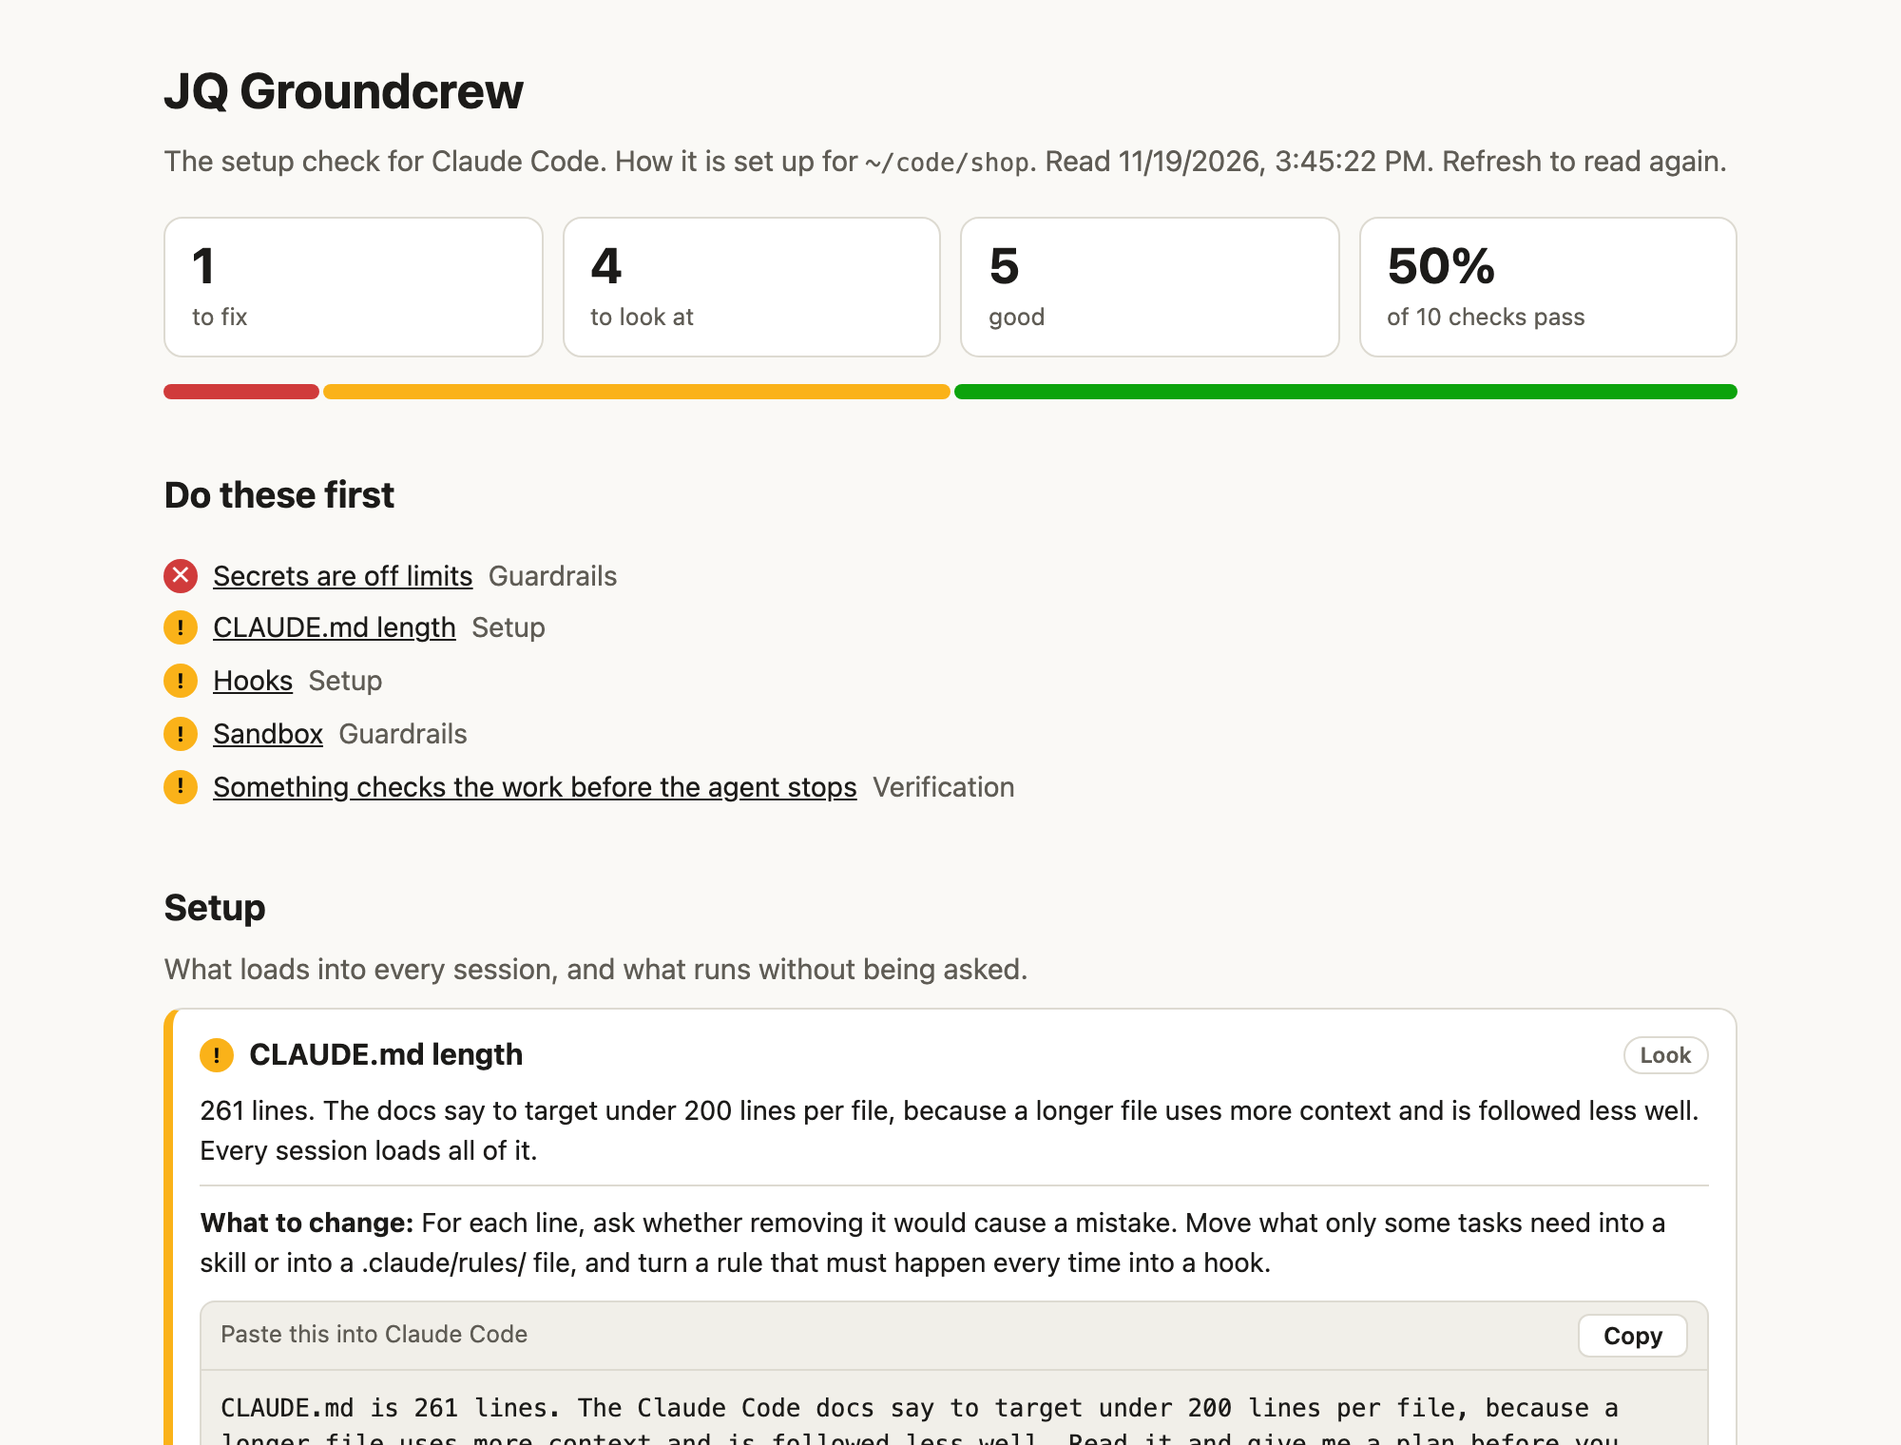
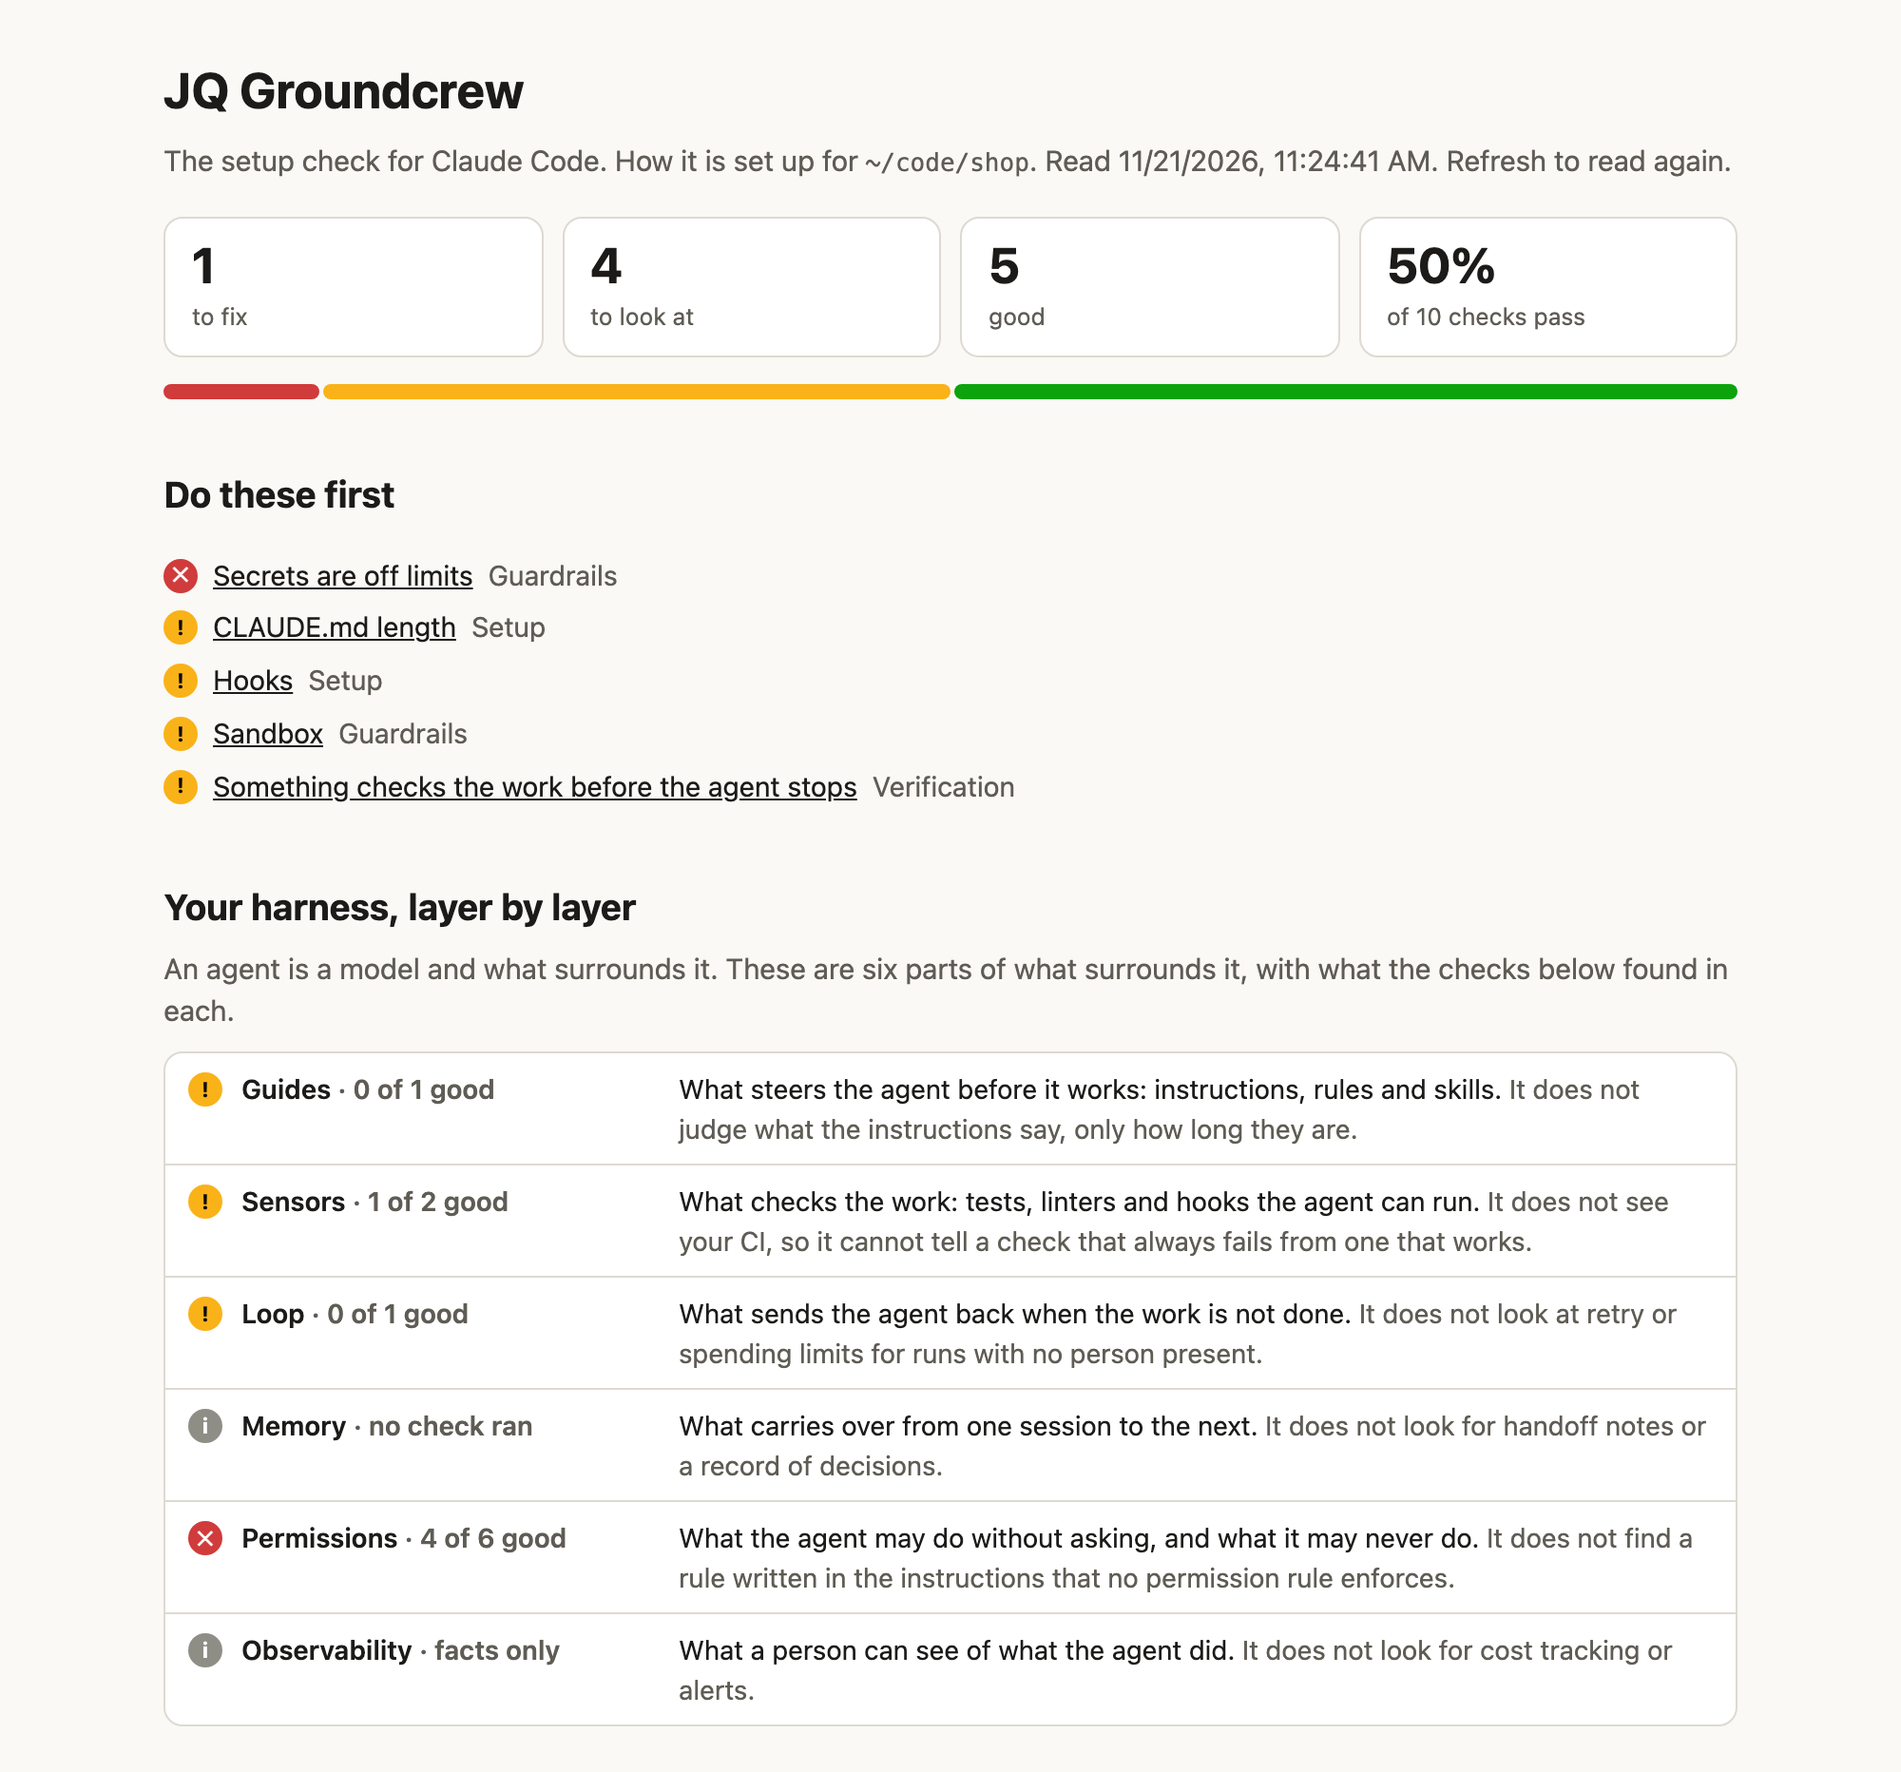
Groundcrew 0.1.5: sort the checks into six harness layers (#12)
The page gains a panel with one row per layer (guides, sensors, loop,
memory, permissions, observability): how many of that layer's checks
pass, and what Groundcrew does not check there. Each check carries its
layer, and --json has the rows under layers. No check changed, and the
board summary sends the same fields as before.

diff --git a/packages/groundcrew/src/groundcrew-core.ts b/packages/groundcrew/src/groundcrew-core.ts
@@ -16,6 +16,13 @@
 
 export type Status = 'pass' | 'warn' | 'fail' | 'info'
 export type Group = 'setup' | 'guardrails' | 'verification'
+/**
+ * The part of an agent's harness a check is about. A harness is everything around the model:
+ * what steers it before it works (guides), what checks it afterwards (sensors), what sends it
+ * back to try again (loop), what it remembers between sessions (memory), what it may do
+ * (permissions), and what a person can see of it (observability).
+ */
+export type Layer = 'guides' | 'sensors' | 'loop' | 'memory' | 'permissions' | 'observability'
 
 export interface MemoryFile {
   /** A label a person can read, such as "CLAUDE.md" or "~/.claude/CLAUDE.md". */
@@ -63,6 +70,8 @@ export interface SetupFacts {
 export interface Check {
   id: string
   group: Group
+  /** Which layer of the harness the check is about. Set by runChecks from LAYER_OF. */
+  layer: Layer
   title: string
   status: Status
   /** What was found. */
@@ -307,7 +316,7 @@ function guardrailChecks(facts: SetupFacts): Unprompted[] {
   return checks
 }
 
-type Unprompted = Omit<Check, 'prompt'>
+type Unprompted = Omit<Check, 'prompt' | 'layer'>
 
 /** A command that tests, lints, type-checks or builds: something the agent can run to check a change. */
 export function looksLikeACheck(command: string): boolean {
@@ -440,9 +449,107 @@ export function promptFor(check: Unprompted, facts: SetupFacts): string {
   }
 }
 
+/**
+ * The layer each check belongs to, by the part of its id before any colon. A check added
+ * without a line here fails the test "every check has a layer".
+ */
+export const LAYER_OF: Readonly<Record<string, Layer>> = {
+  'memory-exists': 'guides',
+  'memory-length': 'guides',
+  skills: 'guides',
+  'legacy-commands': 'guides',
+  hooks: 'sensors',
+  'verify-command': 'sensors',
+  'stop-check': 'loop',
+  'auto-memory-index': 'memory',
+  'allow-rules': 'permissions',
+  'subagents-and-mcp': 'permissions',
+  'deny-secrets': 'permissions',
+  'broad-allow': 'permissions',
+  'default-mode': 'permissions',
+  sandbox: 'permissions',
+  reach: 'permissions',
+  managed: 'permissions',
+  'subagent-scope': 'permissions',
+  retention: 'observability',
+}
+
+export function layerOf(id: string): Layer {
+  return LAYER_OF[id.split(':')[0]] ?? 'guides'
+}
+
+/**
+ * The six layers in reading order. `unchecked` names what Groundcrew does NOT look at in that
+ * layer, so a row of passes is not read as "this layer is covered". Shorten a line only when
+ * a check for it ships.
+ */
+export const LAYERS: ReadonlyArray<{ key: Layer; title: string; what: string; unchecked: string }> = [
+  {
+    key: 'guides',
+    title: 'Guides',
+    what: 'What steers the agent before it works: instructions, rules and skills.',
+    unchecked: 'It does not judge what the instructions say, only how long they are.',
+  },
+  {
+    key: 'sensors',
+    title: 'Sensors',
+    what: 'What checks the work: tests, linters and hooks the agent can run.',
+    unchecked: 'It does not see your CI, so it cannot tell a check that always fails from one that works.',
+  },
+  {
+    key: 'loop',
+    title: 'Loop',
+    what: 'What sends the agent back when the work is not done.',
+    unchecked: 'It does not look at retry or spending limits for runs with no person present.',
+  },
+  {
+    key: 'memory',
+    title: 'Memory',
+    what: 'What carries over from one session to the next.',
+    unchecked: 'It does not look for handoff notes or a record of decisions.',
+  },
+  {
+    key: 'permissions',
+    title: 'Permissions',
+    what: 'What the agent may do without asking, and what it may never do.',
+    unchecked: 'It does not find a rule written in the instructions that no permission rule enforces.',
+  },
+  {
+    key: 'observability',
+    title: 'Observability',
+    what: 'What a person can see of what the agent did.',
+    unchecked: 'It does not look for cost tracking or alerts.',
+  },
+]
+
 export function runChecks(facts: SetupFacts): Check[] {
   const checks: Unprompted[] = [...memoryChecks(facts), ...automationChecks(facts), ...guardrailChecks(facts), ...verificationChecks(facts)]
-  return checks.map((check) => ({ ...check, prompt: promptFor(check, facts) }))
+  return checks.map((check) => ({ ...check, layer: layerOf(check.id), prompt: promptFor(check, facts) }))
+}
+
+export interface LayerSummary {
+  layer: Layer
+  title: string
+  pass: number
+  warn: number
+  fail: number
+  info: number
+  /**
+   * The worst status among the layer's checks. "facts" means the layer has rows but none that
+   * can pass or fail; "none" means no check ran for it in this project.
+   */
+  state: 'fix' | 'look' | 'good' | 'facts' | 'none'
+}
+
+/** One row per layer, in the order of LAYERS, including layers with no check. */
+export function layerSummary(checks: Check[]): LayerSummary[] {
+  return LAYERS.map(({ key, title }) => {
+    const mine = checks.filter((c) => c.layer === key)
+    const count = (status: Status) => mine.filter((c) => c.status === status).length
+    const [pass, warn, fail, info] = [count('pass'), count('warn'), count('fail'), count('info')]
+    const state = fail ? 'fix' : warn ? 'look' : pass ? 'good' : info ? 'facts' : 'none'
+    return { layer: key, title, pass, warn, fail, info, state }
+  })
 }
 
 export interface Summary {

diff --git a/packages/groundcrew/test/groundcrew-core.test.ts b/packages/groundcrew/test/groundcrew-core.test.ts
@@ -5,7 +5,7 @@
  * plain static-import test.
  */
 import { describe, expect, it, test } from 'vitest'
-import { allowsEveryCommand, boardSummary, deniesSecrets, looksLikeACheck, runChecks, summarize, type SettingsFile, type SetupFacts } from '../src/groundcrew-core.js'
+import { allowsEveryCommand, boardSummary, deniesSecrets, LAYER_OF, LAYERS, layerSummary, looksLikeACheck, runChecks, summarize, type SettingsFile, type SetupFacts } from '../src/groundcrew-core.js'
 import { renderPage } from '../src/groundcrew-page.js'
 
 const settings = (extra: Partial<SettingsFile> = {}): SettingsFile => ({
@@ -198,6 +198,46 @@ describe('summary', () => {
     for (const check of runChecks(facts({ legacyCommands: 3, autoMemoryIndex: { label: 'MEMORY.md', lines: 1, bytes: 1 } }))) {
       expect(check.source).toMatch(/^https:\/\/code\.claude\.com\/docs\/en\/[a-z-]+\.md$/)
     }
+  })
+})
+
+describe('harness layers', () => {
+  const empty = facts({ memory: [], settings: [], subagentFiles: [], secretFiles: ['.env'] })
+  const full = facts({ legacyCommands: 3, autoMemoryIndex: { label: 'MEMORY.md', lines: 1, bytes: 1 }, subagentFiles: [{ name: 'reviewer', limitsTools: false }] })
+  test('every check has a layer', () => {
+    for (const f of [facts(), empty, full]) {
+      for (const check of runChecks(f)) {
+        expect(Object.keys(LAYER_OF)).toContain(check.id.split(':')[0])
+        expect(check.layer).toBe(LAYER_OF[check.id.split(':')[0]])
+      }
+    }
+  })
+  test('gives one row per layer, in order, and counts every check once', () => {
+    const checks = runChecks(full)
+    const rows = layerSummary(checks)
+    expect(rows.map((r) => r.layer)).toEqual(LAYERS.map((l) => l.key))
+    expect(rows.reduce((n, r) => n + r.pass + r.warn + r.fail + r.info, 0)).toBe(checks.length)
+  })
+  test('a layer takes the worst status of its checks', () => {
+    const rows = layerSummary(runChecks(empty))
+    const state = (layer: string) => rows.find((r) => r.layer === layer)?.state
+    expect(state('permissions')).toBe('fix') // a secrets file with no deny rule
+    expect(state('loop')).toBe('look') // no Stop hook
+    expect(state('observability')).toBe('facts') // session records is a plain fact
+  })
+  test('a layer with no check says so and is not counted as good', () => {
+    const rows = layerSummary(runChecks(facts()).filter((c) => c.layer !== 'memory'))
+    expect(rows.find((r) => r.layer === 'memory')).toMatchObject({ pass: 0, warn: 0, fail: 0, info: 0, state: 'none' })
+  })
+  test('the page shows all six, and what is not checked in each', () => {
+    const checks = runChecks(empty)
+    const html = renderPage({ project: 'p', generatedAt: 'now', filesRead: [], checks, summary: summarize(checks) })
+    expect(html).toContain('Your harness, layer by layer')
+    for (const layer of LAYERS) {
+      expect(html).toContain(`<b>${layer.title}<span class="mut">`)
+      expect(html).toContain(layer.unchecked)
+    }
+    expect(html.indexOf('Your harness, layer by layer')).toBeLessThan(html.indexOf('<h2>Setup</h2>'))
   })
 })
 

diff --git a/packages/groundcrew/src/groundcrew-page.ts b/packages/groundcrew/src/groundcrew-page.ts
@@ -9,7 +9,7 @@
  * already good, and plain facts, are one line each, so they do not bury the fixes. Status is
  * never color alone: each row has an icon and a word. Light and dark follow the system.
  */
-import type { Check, Group, Status, Summary } from './groundcrew-core.js'
+import { LAYERS, layerSummary, type Check, type Group, type LayerSummary, type Status, type Summary } from './groundcrew-core.js'
 
 export interface Report {
   project: string
@@ -17,6 +17,8 @@ export interface Report {
   filesRead: string[]
   checks: Check[]
   summary: Summary
+  /** One row per harness layer. The page works it out from `checks`; it is here for --json. */
+  layers?: LayerSummary[]
 }
 
 const esc = (text: string) => text.replace(/&/g, '&amp;').replace(/</g, '&lt;').replace(/>/g, '&gt;').replace(/"/g, '&quot;')
@@ -95,6 +97,29 @@ const row = (check: Check) =>
   `<li>${dot(check.status)}<b>${esc(check.title)}<span class="mut"> · ${STATUS[check.status].word}</span></b><span class="d">${esc(check.detail)}</span>` +
   `<span class="src mut">${sourceLink(check)}</span></li>`
 
+const LAYER_DOT: Record<LayerSummary['state'], Status> = { fix: 'fail', look: 'warn', good: 'pass', facts: 'info', none: 'info' }
+
+function layerCount(row: LayerSummary): string {
+  const judged = row.pass + row.warn + row.fail
+  if (judged) return `${row.pass} of ${judged} good`
+  return row.info ? 'facts only' : 'no check ran'
+}
+
+/** The harness, one row per layer. Each row also says what Groundcrew does not check there. */
+function layerPanel(checks: Check[]): string {
+  const rows = layerSummary(checks).map((row) => {
+    const about = LAYERS.find((l) => l.key === row.layer)!
+    return (
+      `<li>${dot(LAYER_DOT[row.state])}<b>${about.title}<span class="mut"> · ${layerCount(row)}</span></b>` +
+      `<span class="d">${esc(about.what)} <span class="mut">${esc(about.unchecked)}</span></span></li>`
+    )
+  })
+  return (
+    '<h2>Your harness, layer by layer</h2><p class="mut">An agent is a model and what surrounds it. These are six parts of what surrounds it, with what the checks below found in each.</p>' +
+    `<ul class="rows">${rows.join('')}</ul>`
+  )
+}
+
 export function renderPage(report: Report): string {
   const { summary } = report
   const judged = summary.pass + summary.warn + summary.fail
@@ -124,6 +149,7 @@ export function renderPage(report: Report): string {
     `<div class="tile"><b>${summary.pass}</b><span>good</span></div><div class="tile"><b>${summary.score}%</b><span>of ${judged} checks pass</span></div></div>` +
     `<div class="bar" role="img" aria-label="${summary.fail} to fix, ${summary.warn} to look at, ${summary.pass} good">${bar}</div>` +
     todo +
+    layerPanel(report.checks) +
     groups +
     '<footer><p>This page was made on your machine from the files below, and it loads nothing, so nothing left the machine. ' +
     'Its one script copies a prompt to your clipboard when you press Copy. ' +

diff --git a/packages/groundcrew/src/groundcrew-cli.ts b/packages/groundcrew/src/groundcrew-cli.ts
@@ -8,7 +8,7 @@
 import { existsSync, writeFileSync } from 'fs'
 import { createServer } from 'http'
 import path from 'path'
-import { FAIL_ON_LEVELS, failing, runChecks, summarize, type FailOn } from './groundcrew-core.js'
+import { FAIL_ON_LEVELS, failing, layerSummary, runChecks, summarize, type FailOn } from './groundcrew-core.js'
 import { canRead, gather, tilde } from './groundcrew-gather.js'
 import { renderPage, type Report } from './groundcrew-page.js'
 
@@ -17,7 +17,7 @@ export const DEFAULT_PORT = 4317
 export function report(project: string): Report {
   const { facts, filesRead } = gather(project)
   const checks = runChecks(facts)
-  return { project: tilde(project), generatedAt: new Date().toLocaleString('en-US'), filesRead, checks, summary: summarize(checks) }
+  return { project: tilde(project), generatedAt: new Date().toLocaleString('en-US'), filesRead, checks, summary: summarize(checks), layers: layerSummary(checks) }
 }
 
 export interface Parsed {

diff --git a/packages/groundcrew/test/groundcrew-public.test.ts b/packages/groundcrew/test/groundcrew-public.test.ts
@@ -65,7 +65,7 @@ describe('parseArgs', () => {
 
 describe('--fail-on, for CI', () => {
   const tmp = os.tmpdir()
-  const row = (status: Check['status']): Check => ({ id: status, group: 'setup', title: `a ${status} row`, status, detail: '', fix: '', source: '', prompt: '' })
+  const row = (status: Check['status']): Check => ({ id: status, group: 'setup', layer: 'guides', title: `a ${status} row`, status, detail: '', fix: '', source: '', prompt: '' })
   const rows = (...statuses: Check['status'][]) => statuses.map(row)
 
   test('reads the level, and does not take it as the folder', () => {

diff --git a/packages/groundcrew/README.md b/packages/groundcrew/README.md
@@ -6,7 +6,7 @@ Groundcrew reads how Claude Code is set up for a project and shows you what to f
 
 It runs on your machine. It sends nothing anywhere.
 
-![The JQ Groundcrew page for a project: one check to fix, four to look at, five good, and the first check with a prompt to paste into Claude Code.](https://raw.githubusercontent.com/point-seven-studio/jq-tools/main/packages/groundcrew/docs/screenshot.png)
+![The JQ Groundcrew page for a project: one check to fix, four to look at, five good, the list of what to do first, and the harness layer by layer.](https://raw.githubusercontent.com/point-seven-studio/jq-tools/main/packages/groundcrew/docs/screenshot.png)
 
 *The data in the picture is made up.*
 
@@ -80,6 +80,23 @@ console.log(summarize(checks))
 - Whether each subagent is limited to the tools its job needs.
 
 Each check links the page of Anthropic's Claude Code documentation it rests on. Advice that is ours, and not the docs', says "our suggestion".
+
+## The harness, layer by layer
+
+From 0.1.5 the page also sorts the same checks into six layers of an agent's harness, which is everything around the model:
+
+| Layer | What it is | Checks today |
+|---|---|---|
+| Guides | What steers the agent before it works | Instruction file length, skills, custom commands |
+| Sensors | What checks the work | Hooks, and whether the agent can run your checks |
+| Loop | What sends the agent back when the work is not done | The Stop hook |
+| Memory | What carries over between sessions | The auto memory index |
+| Permissions | What the agent may and may not do | Secrets, blanket approvals, permission mode, sandbox, reach, subagent tools |
+| Observability | What a person can see of what the agent did | Transcript retention, as a fact |
+
+Each row on the page also says what Groundcrew does **not** check in that layer, so a row of passes is not read as "covered". Loop, memory and observability have one check each. In `--json` the rows are under `layers`, and each check carries its `layer`.
+
+The layer names follow the "guides and sensors" way of describing an agent harness that several engineering teams have written about. The grouping of checks into them is ours.
 
 ## What it reads, and what it does not
 
